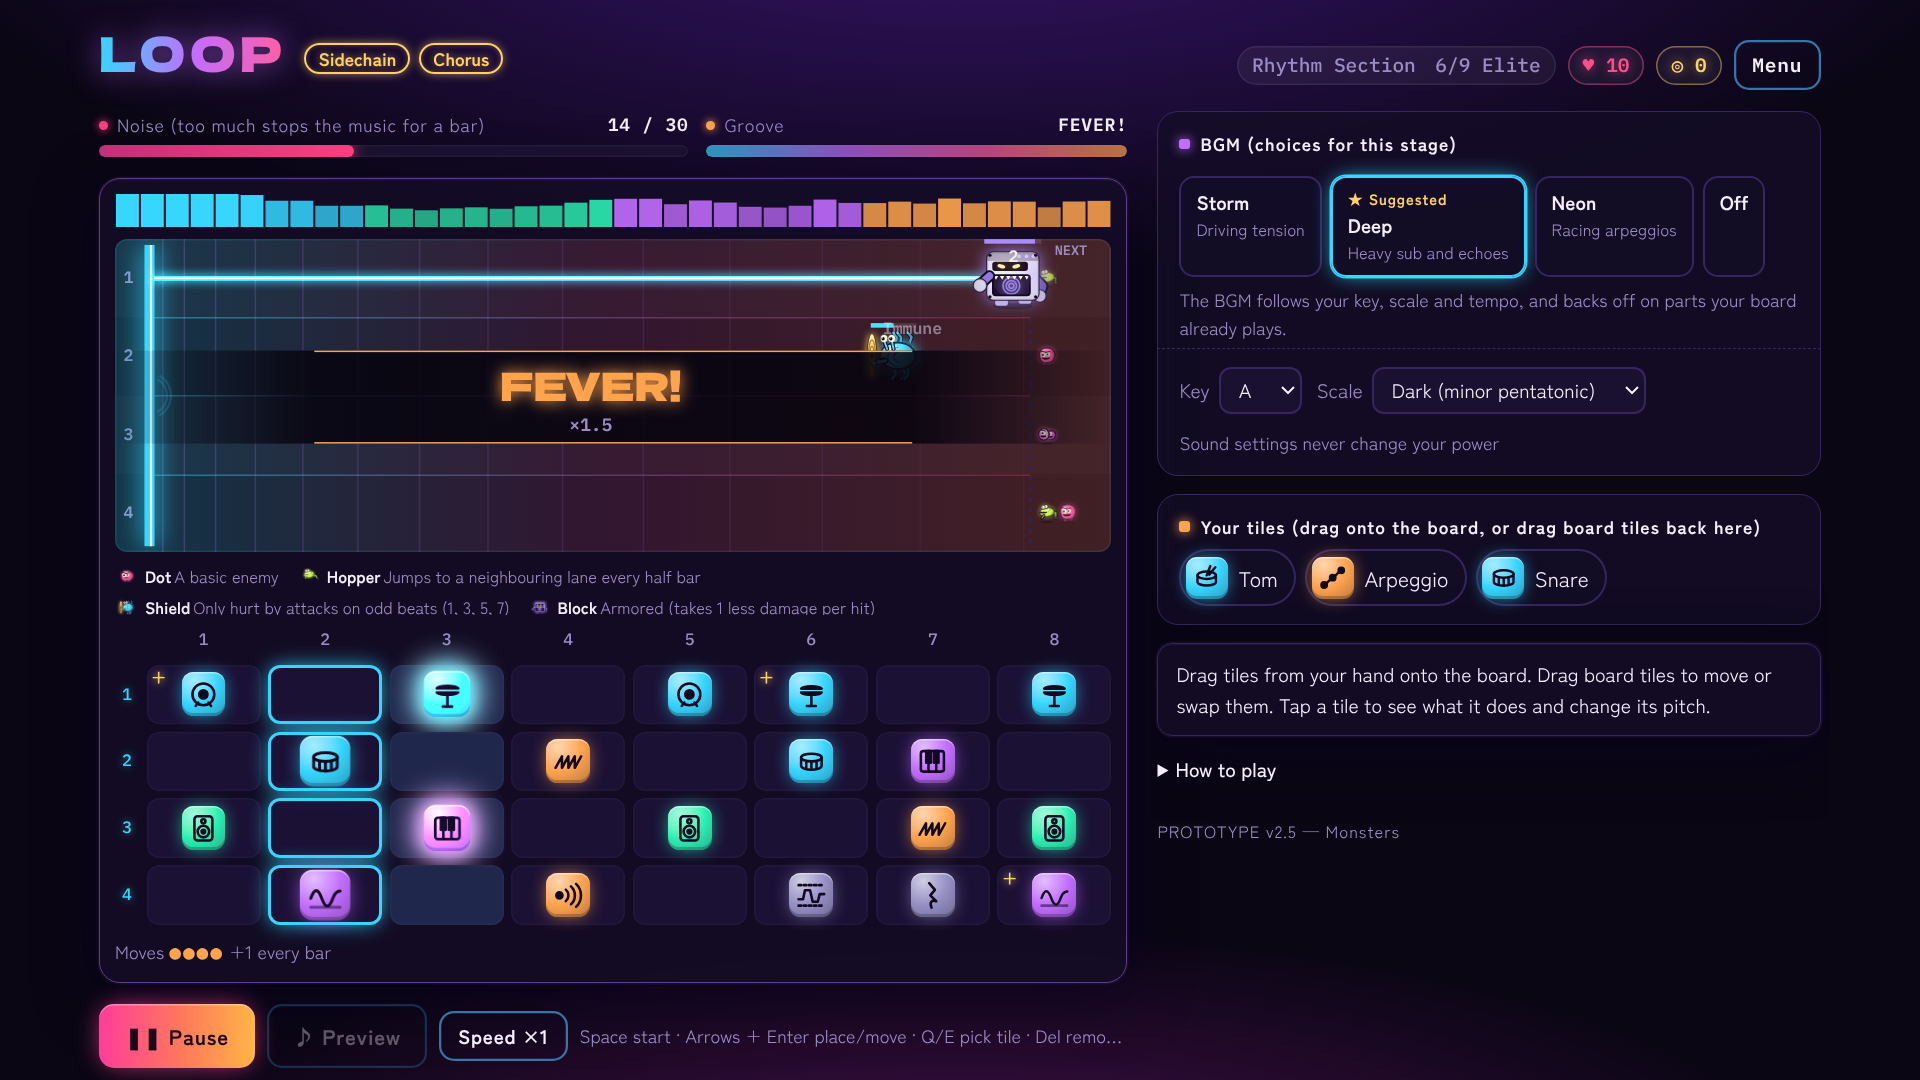
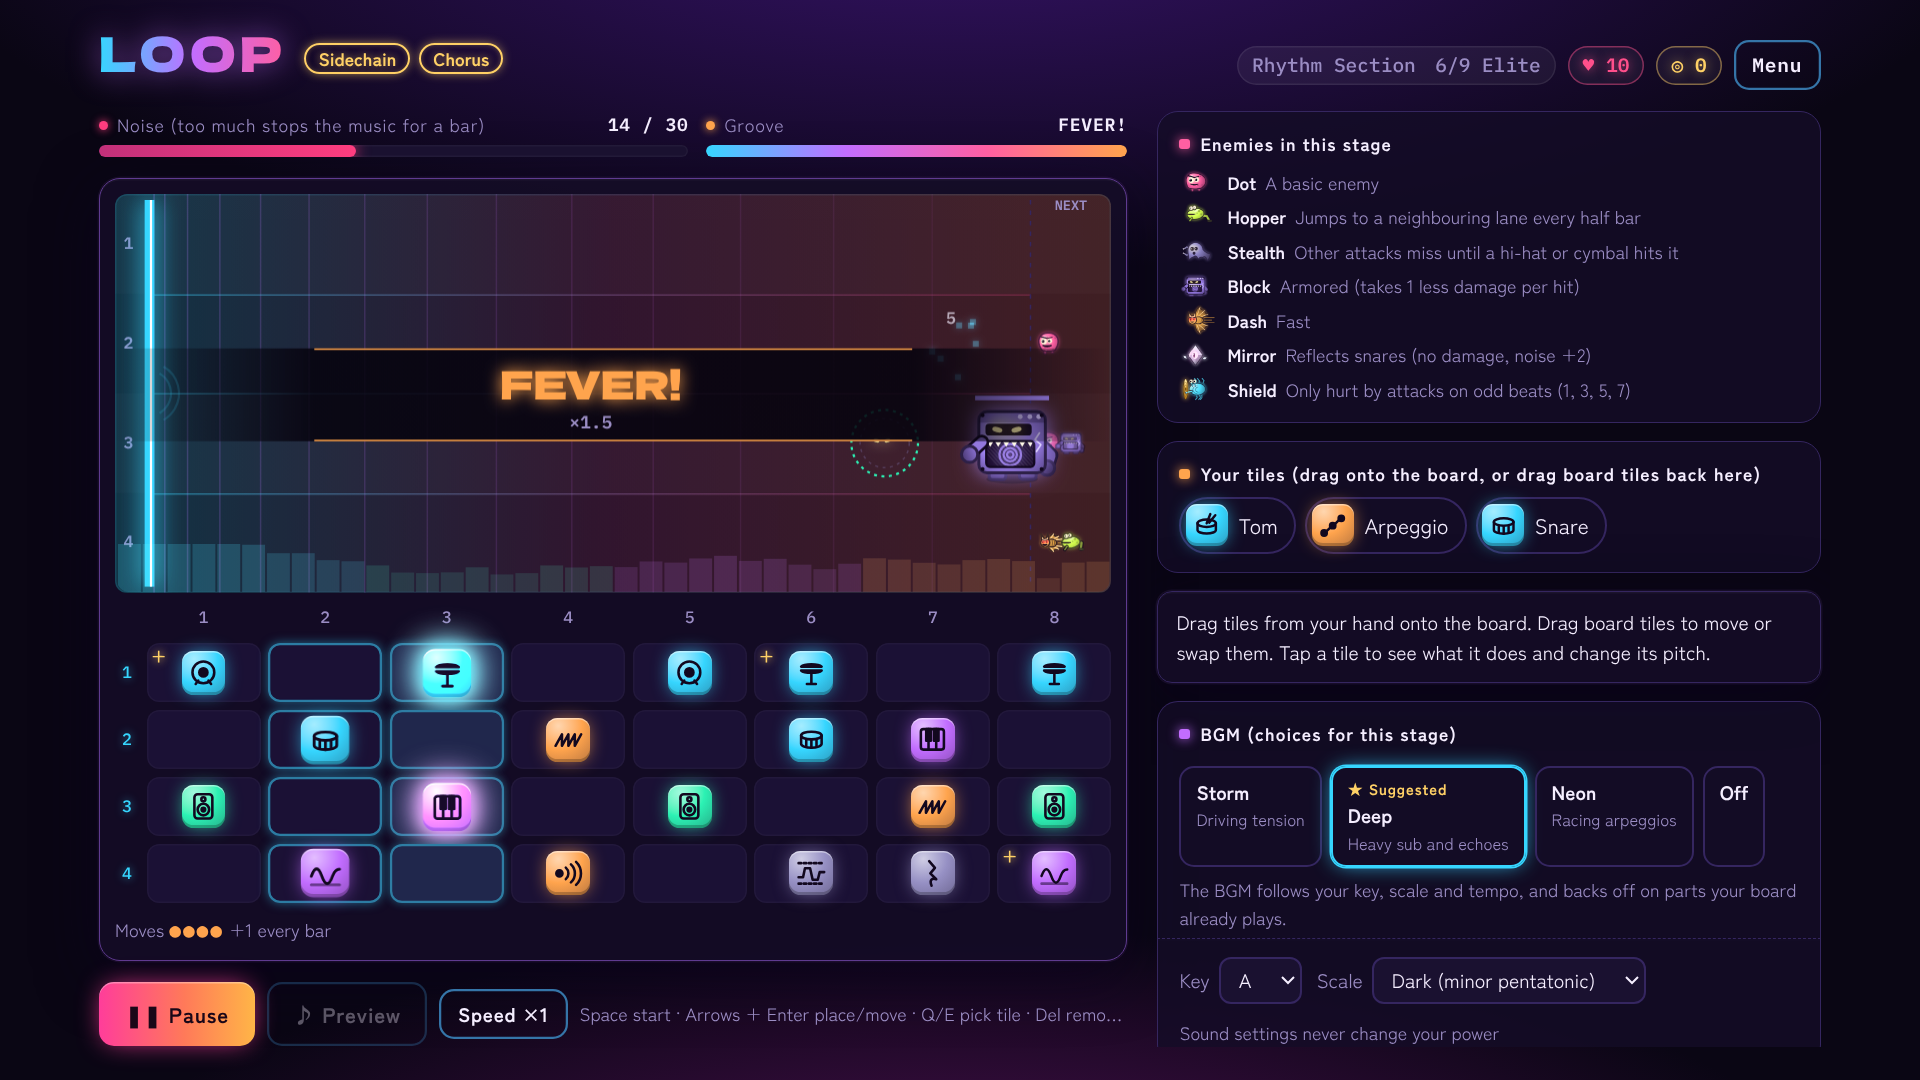
LOOP v2.6: bigger battlefield (spectrum as a glowing floor, enemy list moved to a side card), monsters scale with lanes
Claude-Session: https://claude.ai/code/session_01LMYF2JBUaNhZnfXt7kDBCg

diff --git a/games/loop/prototype.html b/games/loop/prototype.html
@@ -59,7 +59,8 @@ h1 { font-family: var(--f-display); font-weight: 400; font-size: 32px; letter-sp
 @keyframes blink { 50% { opacity: .35; } }
 
 .stage { background: var(--surface); border: 1px solid var(--line); border-radius: 14px; padding: 10px; display: flex; flex-direction: column; gap: 8px; }
-canvas#field { width: 100%; height: 168px; display: block; border-radius: 8px; background: var(--bg); }
+canvas#field { width: 100%; height: 230px; display: block; border-radius: 8px; background: var(--bg); }
+.field-wrap { position: relative; }
 .board { display: grid; grid-template-columns: 16px repeat(8, minmax(0, 1fr)); gap: 5px; }
 .lane-num, .beat-num { font-family: var(--f-mono); font-size: 11px; color: var(--muted); display: grid; place-items: center; }
 .cell {
@@ -180,17 +181,17 @@ canvas#field.hurt { animation: hurt .25s linear; }
   .coach { order: 1; } .relics { order: 2; } .meters { order: 3; } .stage { order: 4; } .controls { order: 5; }
   #handZone { order: 6; position: sticky; bottom: 0; z-index: 6; background: var(--bg); border-top: 1px solid var(--line);
     padding-block: 8px max(8px, env(safe-area-inset-bottom, 0px)); border-radius: 0; }
-  #info { order: 7; } .sound { order: 8; } details { order: 9; } .proto { order: 10; }
+  #info { order: 7; } .sound { order: 8; } details { order: 9; } .proto { order: 10; } .foes { order: 4; }
 }
 @media (min-width: 960px) {
   .app { max-width: 1180px; }
   .layout { display: grid; grid-template-columns: minmax(0, 1.55fr) minmax(300px, 1fr); gap: 20px; align-items: start; }
   .side { position: sticky; top: max(16px, env(safe-area-inset-top, 0px)); max-height: calc(var(--vh) * 100 - 92px); overflow-y: auto; padding: 4px 6px 4px 4px; margin: -4px -6px -4px -4px; }
-  canvas#field { height: clamp(170px, calc(var(--vh) * 29), 300px); }
+  canvas#field { height: clamp(220px, calc(var(--vh) * 37), 410px); }
   .keys { display: inline; }
   .app { padding-block: 10px 12px; }
   #board .cell { aspect-ratio: auto; height: clamp(32px, calc(var(--vh) * 5.5), 66px); }
-  .legend { font-size: 11px; line-height: 1.5; max-height: 34px; overflow-y: auto; }
+  .legend { font-size: 12px; line-height: 1.45; }
   #board .cell .tile { width: auto; height: 74%; aspect-ratio: 1; }
 }
 .toast { position: fixed; left: 50%; transform: translateX(-50%); top: calc(12px + env(safe-area-inset-top, 0px)); z-index: 40;
@@ -214,7 +215,8 @@ canvas#field.hurt { animation: hurt .25s linear; }
 .spot { outline: 3px solid var(--lead) !important; outline-offset: 2px; animation: spot 1.2s ease-in-out infinite; }
 @keyframes spot { 50% { outline-color: transparent; } }
 @media (prefers-reduced-motion: reduce) { .spot { animation: none; } }
-canvas#viz { width: 100%; height: 22px; display: block; }
+/* The spectrum lies along the bottom of the battlefield like a glowing floor. */
+canvas#viz { position: absolute; left: 1px; right: 1px; bottom: 1px; width: calc(100% - 2px); height: 12%; display: block; opacity: .2; pointer-events: none; mix-blend-mode: screen; border-radius: 0 0 8px 8px; }
 .bgm { display: flex; flex-direction: column; gap: 6px; }
 .bgm .hint { margin: 0; }
 .bgm-list { display: flex; flex-wrap: wrap; gap: 6px; }
@@ -292,7 +294,11 @@ select { background: #1a1130; }
 .ach.got .mark { box-shadow: 0 0 8px var(--gold); }
 @media (prefers-reduced-motion: reduce) { .cell.ph { box-shadow: inset 0 0 0 2px var(--playhead); } }
 /* ---- UI polish: cards, pills, icons ---- */
-.e-ico { width: 16px; height: 16px; vertical-align: -3px; margin-right: 2px; }
+.e-ico { width: 26px; height: 26px; flex: none; margin: -3px 2px -3px -2px; }
+.foes .legend { flex-direction: column; flex-wrap: nowrap; gap: 3px; }
+.foes .legend span { display: flex; align-items: center; gap: 6px; }
+.foes .legend b { white-space: nowrap; }
+#foesPanel .panel-title::before { background: var(--enemy); box-shadow: 0 0 8px var(--enemy); }
 .cx-ico { width: 46px; height: 46px; margin: -6px 0; }
 .legend span { display: inline-flex; align-items: center; gap: 2px; }
 .panel-title, .bgm .panel-title { display: flex; align-items: center; gap: 7px; font-weight: 700; color: var(--fg); letter-spacing: .06em; }
@@ -313,11 +319,12 @@ select { background: #1a1130; }
 .kit-tiles .tile { width: 24px; height: 24px; }
 .offer-head .tile, .cx .tile { width: 30px; height: 30px; }
 @media (min-width: 960px) {
-  #bgmPanel, .side > .sound, #handZone { background: color-mix(in srgb, var(--surface) 80%, transparent); border: 1px solid var(--line); border-radius: 14px; padding: 12px 14px; }
+  #foesPanel, #bgmPanel, .side > .sound, #handZone { background: color-mix(in srgb, var(--surface) 80%, transparent); border: 1px solid var(--line); border-radius: 14px; padding: 12px 14px; }
   .side > .sound { margin-top: -6px; }
   #bgmPanel { border-bottom-left-radius: 0; border-bottom-right-radius: 0; border-bottom: none; padding-bottom: 6px; }
   .side > .sound { border-top-left-radius: 0; border-top-right-radius: 0; border-top: 1px dashed var(--line); margin-top: -14px; }
   .side { gap: 12px; }
+  .side > * { flex-shrink: 0; }
 }
 :root[data-cb] { --drum: #0072b2; --bass: #009e73; --harm: #cc79a7; --lead: #e69f00; --noise: #d55e00; --life: #d55e00; --fx: #7a7f8c; }
 .offer.locked { opacity: .55; padding: 6px 10px; gap: 2px; }
@@ -360,9 +367,10 @@ select { background: #1a1130; }
   </div>
 
   <section class="stage">
-    <canvas id="viz" aria-hidden="true"></canvas>
-    <canvas id="field" data-i18n-aria="ui.fieldAria"></canvas>
-    <div class="legend" id="legend"></div>
+    <div class="field-wrap">
+      <canvas id="field" data-i18n-aria="ui.fieldAria"></canvas>
+      <canvas id="viz" aria-hidden="true"></canvas>
+    </div>
     <div class="board" id="beatNums"></div>
     <div class="board" id="board"></div>
     <div class="board-foot"><span class="tempo" id="tempoLabel"></span><span class="over-label" id="overLabel"></span></div>
@@ -377,6 +385,18 @@ select { background: #1a1130; }
   </div>
   <div class="side">
   <div class="coach" id="coach" role="status" aria-live="polite" hidden></div>
+
+  <section class="foes" id="foesPanel">
+    <p class="panel-title" data-i18n="legend.title"></p>
+    <div class="legend" id="legend"></div>
+  </section>
+
+  <section id="handZone">
+    <p class="panel-title" data-i18n="ui.hand"></p>
+    <div class="hand" id="hand"></div>
+  </section>
+
+  <div class="info" id="info"></div>
 
   <section class="bgm" id="bgmPanel">
     <p class="panel-title" data-i18n="bgm.title"></p>
@@ -394,12 +414,6 @@ select { background: #1a1130; }
     <span class="hint" data-i18n="ui.soundNote"></span>
   </div>
 
-  <section id="handZone">
-    <p class="panel-title" data-i18n="ui.hand"></p>
-    <div class="hand" id="hand"></div>
-  </section>
-
-  <div class="info" id="info"></div>
 
   <details>
     <summary data-i18n="ui.howtoTitle"></summary>
@@ -1838,12 +1852,12 @@ function drawField(dt) {
     const k = perLane[o.lane]++;
     const soon = G.phase === 'build' ? o.t / 8 : (o.t - G.t) / 6;
     cx.globalAlpha = 1 - Math.max(0, Math.min(1, soon)) * .65;
-    drawEnemy(cx, o.type, qx + 7 + k * 14, laneY(o.lane), ENEMIES[o.type].boss ? 8 : 6, { hidden: !!ENEMIES[o.type].stealth, still: true, glow: 4 });
+    drawEnemy(cx, o.type, qx + 8 + k * 15, laneY(o.lane), ENEMIES[o.type].boss ? 10 : 7.5, { hidden: !!ENEMIES[o.type].stealth, still: true, glow: 4, noShadow: true });
   }
   cx.globalAlpha = 1;
   // enemies
   for (const e of G.enemies) {
-    const x = xPix(e.x), y = laneY(e.lane), r = Math.min(CH / LANES * (ENEMIES[e.type].boss ? .46 : .37), e.r * 1.9);
+    const x = xPix(e.x), y = laneY(e.lane), r = Math.min(CH / LANES * (ENEMIES[e.type].boss ? .46 : .37), e.r * 2.6);
     const boss = ENEMIES[e.type].boss;
     if (e.seed == null) e.seed = Math.random() * 10;
     drawEnemy(cx, e.type, x, y, r, { flash: e.flash > 0, hidden: ENEMIES[e.type].stealth && !e.revealed, seed: e.seed, beat: G.pulse || 0,

diff --git a/games/loop/i18n.js b/games/loop/i18n.js
@@ -2,6 +2,7 @@
 // In the Steam build the default language comes from Steam (steamworks getCurrentGameLanguage).
 window.LOOP_I18N = {
   ja: {
+    'legend.title': '出てくる敵',
     'notes': ['ド', 'ド♯', 'レ', 'レ♯', 'ミ', 'ファ', 'ファ♯', 'ソ', 'ソ♯', 'ラ', 'ラ♯', 'シ'],
     'rank.short': 'ランク{n}', 'f.next': '次', 'm.lockTag': '未解放',
     'meta.name': '日本語',
@@ -28,7 +29,7 @@ window.LOOP_I18N = {
       '攻撃を当て続けるとグルーヴがたまり、満タンで2小節のフィーバー（攻撃1.5倍）。敵に抜かれると減ります。',
       '挑戦は戦闘の開始時と行き先を選ぶときに自動保存されます。',
     ],
-    'ui.proto': '試作版 v2.5 — 敵をモンスターに',
+    'ui.proto': '試作版 v2.6 — 戦場を大きく',
     'ui.lang': '言語',
     // board & field
     'f.immune': '無効', 'f.reflect': '反射', 'f.sealFloat': '{n}拍目を封印',
@@ -217,6 +218,7 @@ window.LOOP_I18N = {
   },
 
   en: {
+    'legend.title': 'Enemies in this stage',
     'notes': ['C', 'C#', 'D', 'D#', 'E', 'F', 'F#', 'G', 'G#', 'A', 'A#', 'B'],
     'rank.short': 'R{n}', 'f.next': 'NEXT', 'm.lockTag': 'LOCKED',
     'meta.name': 'English',
@@ -242,7 +244,7 @@ window.LOOP_I18N = {
       'Keep landing hits to build Groove. When it fills up you get two bars of Fever (attacks ×1.5). Letting an enemy through drains it.',
       'Your run is saved automatically at the start of each battle and whenever you choose a route.',
     ],
-    'ui.proto': 'PROTOTYPE v2.5 — Monsters',
+    'ui.proto': 'PROTOTYPE v2.6 — Bigger battlefield',
     'ui.lang': 'Language',
     'f.immune': 'Immune', 'f.reflect': 'Reflected', 'f.sealFloat': 'Beat {n} sealed',
     'f.idle': '{node} — place tiles, then press Start stage',
@@ -427,6 +429,7 @@ window.LOOP_I18N = {
   },
 
   zh: {
+    'legend.title': '本关敌人',
     'notes': ['C', 'C#', 'D', 'D#', 'E', 'F', 'F#', 'G', 'G#', 'A', 'A#', 'B'],
     'rank.short': '等级{n}', 'f.next': '下一个', 'm.lockTag': '未解锁',
     'meta.name': '简体中文',
@@ -452,7 +455,7 @@ window.LOOP_I18N = {
       '持续命中可积累律动，充满后进入2小节的狂热（攻击×1.5）。被敌人突破会减少律动。',
       '每场战斗开始时以及选择路线时会自动保存进度。',
     ],
-    'ui.proto': '原型 v2.5 — 怪物登场',
+    'ui.proto': '原型 v2.6 — 更大的战场',
     'ui.lang': '语言',
     'f.immune': '无效', 'f.reflect': '反射', 'f.sealFloat': '封印第{n}拍',
     'f.idle': '{node}　摆好音块后点击“开始关卡”',

diff --git a/games/loop/README.md b/games/loop/README.md
@@ -241,6 +241,14 @@
 - ストアのボス戦スクリーンショットに、ボスと複数のモンスターが写るようにした
 - 敵が24体いても毎秒59フレームで動くことを確認
 
+## v2.6 の追加（戦場を大きく）
+
+- 戦場の高さを 1280×720 で約210px→約266px に（v2.4 の約170px から1.5倍以上）。大きな画面では最大410px
+- 戦場の上にあった音の帯（スペクトラム）を、戦場の下端に光る床として重ねた
+- 戦場の下にあった敵の説明を、右側の「出てくる敵」カードに移した（敵の絵つき、1行に1体）
+- モンスターをレーンの高さに合わせて大きく描くようにした。「次」の列の敵の絵も少し大きく
+- 右側の並びを、遊んでいる間に大事な順（出てくる敵 → 手持ちのタイル → 説明 → BGMと音の設定）に変えた
+
 ## 製品版の想定（10時間ボリューム）
 
 タイル約100種、装置約30種、楽器セット6種、ボス12体、難易度10段階、エンドレス、毎日の挑戦、スタジオモード、曲の保存・書き出し。
